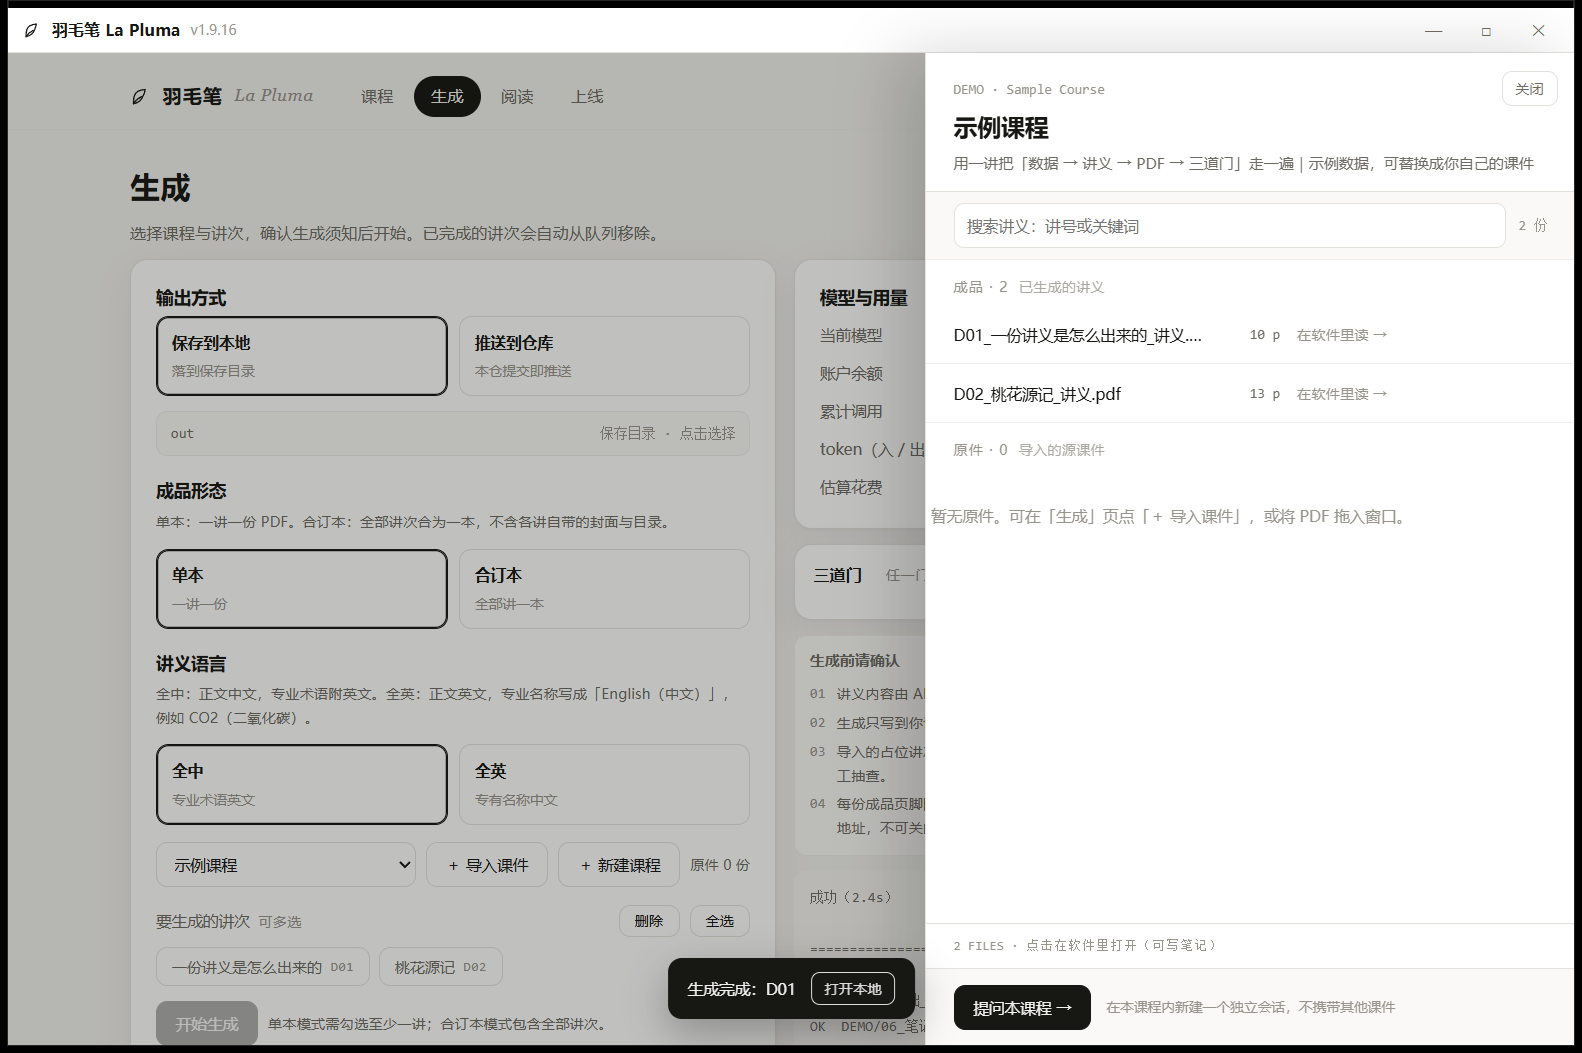
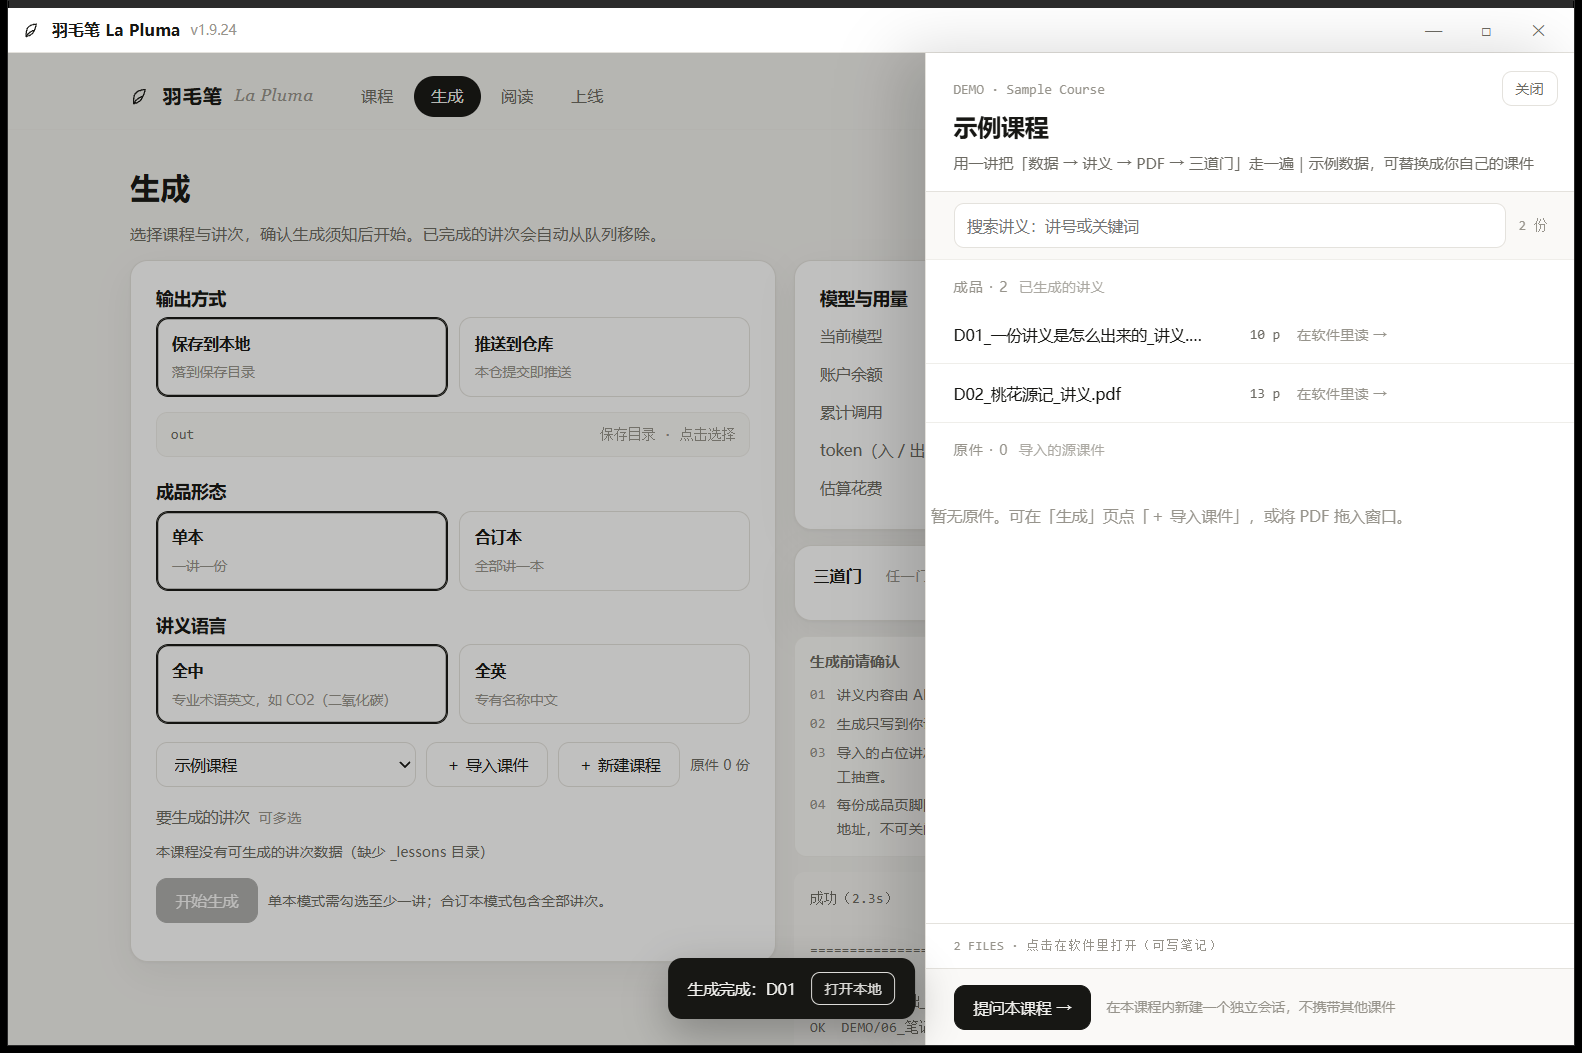
feat(文案): 小注去重（R101 44→34）+ 界面图重拍
按 PRTS R101「新增一条提示前先删一条重复的」并掉 10 处：单本/合订本、全中/全英（例子并进选项小字）、翻译留空、余额不足、删除讲次、向导保存目录、系统盘库、旧库选择、定位确认、密钥页（隐私说明并进标题，教程链接留原位）。

判据：check-copy 灰色小注 34/34 禁词 0；check-reading-tools 23/23（第 10 项锚点从已删提示语改成译文框，selftest 32 项全按预期）；check-inline-js 2 段通过；截图覆盖 48 条全绿；22 张真窗口图按白天模式重拍。

diff --git a/ui/index.html b/ui/index.html
@@ -1026,15 +1026,13 @@ body.win #appScroll{flex:1 1 auto;min-height:0;overflow-y:auto;overflow-x:hidden
           <code id="outPath">out</code><span id="dirHint" style="font-size:11.5px;color:var(--faint)">保存目录 · 点击选择</span></div>
         <p class="hint" id="dirFix" style="display:none;color:var(--red);border:0">保存目录在配置里是乱码（出现过 ?），已临时退回默认目录；请到「设置」里重填。</p>
         <h3 style="margin-top:16px">成品形态</h3>
-        <p class="hint">单本：一讲一份 PDF。合订本：全部讲次合为一本，不含各讲自带的封面与目录。</p>
         <div class="opts" id="formOpts">
           <div class="opt on" data-form="single"><b>单本</b><small>一讲一份</small></div>
           <div class="opt" data-form="book"><b>合订本</b><small>全部讲一本</small></div>
         </div>
         <h3 style="margin-top:16px">讲义语言</h3>
-        <p class="hint">全中：正文中文，专业术语附英文。全英：正文英文，专业名称写成「English（中文）」，例如 CO2（二氧化碳）。</p>
         <div class="opts" id="langOpts">
-          <div class="opt on" data-lang="zh"><b>全中</b><small>专业术语英文</small></div>
+          <div class="opt on" data-lang="zh"><b>全中</b><small>专业术语英文，如 CO2（二氧化碳）</small></div>
           <div class="opt" data-lang="en"><b>全英</b><small>专有名称中文</small></div>
         </div>
         <div class="tools">
@@ -1252,7 +1250,6 @@ body.win #appScroll{flex:1 1 auto;min-height:0;overflow-y:auto;overflow-x:hidden
             </div>
             <!-- 下面这个框一直在（用户：「有两个框在」），没译文时只是一句占位提示 -->
             <div id="trOut" class="tr-out empty"><span class="ph">译文会出现在这里</span></div>
-            <p class="hint" style="border:0;margin:8px 0 0">留空就直接翻这一页的文字层；扫描件没有文字层会直说读不到。</p>
             <!-- 2026-11-23 用户：「最近五条翻译移动到最底下去（图2位置）」——历史放整块最下面，
                  翻完看结果时它不再挡在上面。 -->
             <div class="tr-hist" id="trHist"></div>
@@ -2339,8 +2336,7 @@ function askDeleteLesson(no){
   if(!code) return;
   $('#dlg').innerHTML = `
     <div class="eb">Delete lesson</div><h4>删除讲次 ${esc(no)}</h4>
-    <p class="desc">讲义源文件 <code>_lessons\\${esc(no)}.py</code> 将从本课程中移除；已生成的 PDF 与原件不受影响。</p>
-    <p class="fine">文件移入软件目录下的 <code>_trash</code> 回收目录，需要时可取回。</p>
+    <p class="desc">讲义源文件 <code>_lessons\\${esc(no)}.py</code> 将从本课程中移除；已生成的 PDF 与原件不受影响。文件移入软件目录下的 <code>_trash</code> 回收目录，需要时可取回。</p>
     <div class="acts"><button class="btn ghost" id="dlNo">取消</button>
       <button class="btn danger" id="dlYes">删除这一讲</button></div>`;
   openVeil();
@@ -2650,11 +2646,10 @@ function moneyDialog(j){
   const bal = (j.balance && j.balance.ok) ? ('¥'+j.balance.balance) : ('读不到（'+(j.balance&&j.balance.error||'接口没回')+'）');
   $('#dlg').innerHTML = `
     <div class="eb">Balance</div><h4>余额不足，本次提问未能执行</h4>
-    <p class="desc">接口返回「Insufficient Balance」。账户余额与本次提问的估算花费如下。</p>
+    <p class="desc">接口返回「Insufficient Balance」。账户余额与本次提问的估算花费如下。充值到账后点「去充值并重试」；也可先查看已检索到的片段，不产生费用。</p>
     <div class="kv"><span>账户余额</span><b>${esc(bal)}</b></div>
     <div class="kv"><span>本次估算</span><b>${esc(j.cost_est||'约 ¥0.02')}（估）</b></div>
     <div class="kv"><span>当前模型</span><b>${esc(mname(j.model||MODEL))}</b></div>
-    <p class="note-s">充值到账后点「去充值并重试」；也可先查看已检索到的片段，不产生费用。</p>
     <div class="acts"><button class="btn ghost" id="balSee">先看检索片段</button>
       <button class="btn" id="balGo">去充值并重试</button></div>`;
   openVeil();
@@ -4702,13 +4697,12 @@ function wizard(step){
       <div class="pick-model">${(B.models||[]).map(m=>`<div class="p ${W.model===m.id?'on':''}" data-m="${esc(m.id)}">
         <b>${esc(m.name)}</b><small>${esc(m.note)}</small></div>`).join('')}</div>`;
   }else if(step===1){
-    body = `<h4>填写 API 密钥</h4>
-      <p class="note-s">仅保存在本机（%USERPROFILE%\\.pluma\\api.json），不进入仓库，可先跳过。还没有密钥？<a href="/doc?p=使用/08-怎么拿到API密钥.md" target="_blank" style="color:var(--ok);text-decoration:underline">怎么拿到 API 密钥（手把手教程）</a></p>
-      <input type="password" id="wKey" placeholder="sk-…" autocomplete="off">`;
+    body = `<h4>填写 API 密钥（仅存本机 .pluma\\api.json，不进仓库）</h4>
+      <input type="password" id="wKey" placeholder="sk-…" autocomplete="off">
+      <a href="/doc?p=使用/08-怎么拿到API密钥.md" target="_blank" style="font-size:12px;color:var(--ok)">还没有密钥？怎么拿到 API 密钥（手把手教程）</a>`;
   }else if(step===2){
     body = `<h4>选择保存目录</h4>
-      <p class="note-s">生成的讲义会复制到此目录。相对路径以软件目录为根，也可直接填绝对路径。</p>
-      <div class="dirline"><input type="text" id="wDir" value="${esc(B.save_dir||'')}">
+      <div class="dirline"><input type="text" id="wDir" title="生成的讲义会复制到此目录；相对路径以软件目录为根，也可直接填绝对路径" value="${esc(B.save_dir||'')}">
         <button class="pickbtn" id="wPick">📁 选择文件夹…</button></div>
       <p class="pickfine" id="wFine">当前指向：<code>${esc(dirText(B.save_dir, B.save_dir_abs))}</code></p>`;
   }else{
@@ -4864,8 +4858,7 @@ function libAskC(){
   if(!L.suggest) return;
   $('#dlg').innerHTML = `
     <div class="eb">Library</div><h4>课程库在系统盘，要不要挪走？</h4>
-    <p class="fine">课程现在存在 <code>${esc(L.root||'')}</code>（${esc(L.system_drive||'C:')} 盘）。重装系统或清理系统盘时，这里可能被一起清掉。</p>
-    <p class="pickfine">建议复制到 <code>${esc(L.suggest)}</code> 再改用它：复制完关掉软件重开一次生效；原位置的文件不删，保持原样。</p>
+    <p class="fine">课程现在存在 <code>${esc(L.root||'')}</code>（${esc(L.system_drive||'C:')} 盘）。重装系统或清理系统盘时，这里可能被一起清掉。<br>建议复制到 <code>${esc(L.suggest)}</code> 再改用它：复制完关掉软件重开一次生效；原位置的文件不删，保持原样。</p>
     <div class="acts">
       <button class="btn ghost" id="libcNo">先不用</button>
       <button class="btn" id="libcMove">复制过去并切换</button>
@@ -4884,10 +4877,9 @@ function libAsk(){
   const opts = cs.map((c,i)=>'<option value="'+i+'">'+esc(c.path)+'（'+c.items+' 项 · '+esc(c.why)+'）</option>').join('');
   $('#dlg').innerHTML = `
     <div class="eb">Library</div><h4>检测到以前的课程库</h4>
-    <p class="fine">这可能是你上一个版本的文件夹。课程还在里面，没有丢。要怎么办？</p>
+    <p class="fine">这可能是你上一个版本的文件夹。课程还在里面，没有丢。要怎么办？「直接改用」不复制，重启后课程就在；「复制过来」把课程搬进当前目录（旧文件夹保持原样）。</p>
     <div class="lbl">旧文件夹</div>
     <select id="libSel">${opts}</select>
-    <p class="pickfine">「直接改用」不复制，重启后课程就在；「复制过来」把课程搬进当前目录（旧文件夹保持原样）。</p>
     <div class="acts">
       <button class="btn ghost" id="libSkip">不用</button>
       <button class="btn ghost" id="libUse2">直接改用这个库</button>
@@ -4902,9 +4894,7 @@ function libAsk(){
 function askLibraryChange(p){
   $('#dlg').innerHTML = `
     <div class="eb">Library</div><h4>把课程库定在这里？</h4>
-    <p class="pickfine" style="word-break:break-all"><code>${esc(p)}</code></p>
-    <p class="fine">「直接改用」：以后就读这个文件夹，不复制；课程马上都在（要重启一次）。<br>
-    「复制过去再改」：先把现在库里的课程复制进去，再切过去；旧位置保持原样。</p>
+    <p class="pickfine" style="word-break:break-all"><code>${esc(p)}</code><br>「直接改用」：以后就读这个文件夹，不复制；课程马上都在（要重启一次）。「复制过去再改」：先把现在库里的课程复制进去，再切过去；旧位置保持原样。</p>
     <div class="acts">
       <button class="btn ghost" id="lbCancel">取消</button>
       <button class="btn ghost" id="lbUse">直接改用</button>

diff --git a/tools/check/check-reading-tools.py b/tools/check/check-reading-tools.py
@@ -194,11 +194,13 @@ def check(root):
     ), "标题独占可收缩那份（省略号），「占位」徽标与讲号不收缩不折行")
 
     # 2 最近五条翻译挪到整块最下面
-    ti, to, th = idx.find('id="trHist"'), idx.find('id="trOut"'), idx.find("留空就直接翻这一页的文字层")
+    # 2026-11-27：R101 去重时删掉了译文框下面那条提示语，锚点改成译文框本身（#trOut）；
+    #   要判的仍然是「历史在译文框之后 = 整块最下面」。
+    ti, to = idx.find('id="trHist"'), idx.find('id="trOut"')
     add(10, "翻译历史在底部", (
-        ti > 0 and to > 0 and th > 0 and ti > to and ti > th
+        ti > 0 and to > 0 and ti > to
         and ".tr-hist{margin:14px 0 0;border-top:1px solid var(--line2)" in idx
-    ), "「最近 5 条」在译文框与提示语之后（整块最下面），不再挡在输入框上面")
+    ), "「最近 5 条」在译文框之后（整块最下面），不再挡在输入框上面")
 
     # 3 笔记颜色 + PDF 里的引用高亮
     add(11, "笔记颜色与高亮", (
